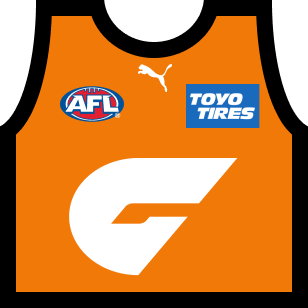
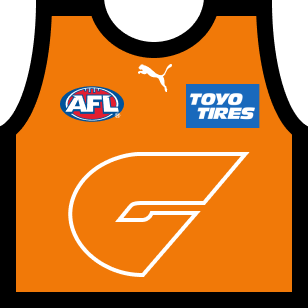
Updated GWS away jumper

Changed region(s): [[0.2045, 0.4675, 0.8182, 0.9058]]

diff --git a/docs/js/main.min.js b/docs/js/main.min.js
@@ -1,1 +1,1 @@
-function scroll(){$(window).on("scroll",function(){$(this).scrollTop()>=$(".c-fixture__round").offset().top-500?$(".js-scrollto-fixture").addClass("is-hidden"):$(".js-scrollto-fixture").removeClass("is-hidden")}),$(".js-scrollto-fixture").on("click",function(){$("html, body").animate({scrollTop:$(".js-game-pregame").offset().top-36},{duration:400,specialEasing:"easeInOut"})}),$(".c-fixture__game").each(function(){$(this).hasClass("c-fixture__game--in-progress")&&($(".js-scrollto-fixture").addClass("has-live"),$(".js-scrollto-fixture").on("click",function(){$("html, body").animate({scrollTop:$(".c-fixture__game--in-progress").offset().top-36},{duration:400,specialEasing:"easeInOut"})}))})}function dataFixture(e){$.getJSON("https://statsapi.foxsports.com.au/3.0/api/sports/afl/series/1/seasons/131/fixturesandresults.json?userkey=6B2F4717-A97C-49F6-8514-3600633439B9",function(t){$.getJSON("data/fixture.json",function(s){function a(t,s){var a=[];for(i=0;i<t.length;i++){const c=t[i];c.round.number==s&&(a.push(c),$(".js-fixture-round").text(c.round.name))}r(a,s),$(".c-fixture__bye--title").removeClass("u-block"),bye(s,u,e)}function c(e){$(".js-game-"+e).remove(),$(".js-bye-item-"+e).remove()}function n(e,s){l=s,c(e),a(t,s)}function r(t,s){for(i=0;i<t.length;i++){fixtureItem(t[i],e,s)}}var d=new Date,o=roundCalc(d,s),l=o,m=$(".js-previous"),_=$(".js-next"),u=[{round_number:2,teams:["BRI","COL","CAR","GEE"]},{round_number:3,teams:["GCS","WBD","HAW","SYD"]},{round_number:4,teams:["STK","GWS"]},{round_number:12,teams:["ADE","GCS","NM","POR"]},{round_number:13,teams:["GWS","RIC"]},{round_number:14,teams:["COL","CAR","HAW","FRE"]},{round_number:15,teams:["BRI","ESS","SYD","WCE"]},{round_number:16,teams:["WBD","GEE","STK","MEL"]}];a(t,o),m.on("click",function(){n(l,l-1)}),_.on("click",function(){n(l,l+1)})})})}function dataLadder(e){$.getJSON("https://statsapi.foxsports.com.au/3.0/api/sports/afl/series/1/seasons/131/ladder.json?userkey=6B2F4717-A97C-49F6-8514-3600633439B9",function(t){$(".c-ladder__round");for(i=0;i<t.teams.length;i++){const s=t.teams[i],a=e[s.code];ladderItem(s,i+1,a)}})}function data(){$.getJSON("data/clubs.json",function(e){dataLadder(e),dataFixture(e)})}function vertCenter(e,t){var s=e.parent().height();e.css({height:s+"px","line-height":s+"px"}),e.children(t).css({height:e.children(t).height(),"padding-top":(s-e.children(t).height())/2+"px","padding-bottom":(s-e.children(t).height())/2+"px"})}function clearStyles(e,t){e.attr("style",""),t.attr("style","")}function bye(e,t,s){for(i=0;i<t.length;i++){const a=t[i];if(e==a.round_number){byeItem(a.teams,s,e),console.log(a);break}}}function byeItem(e,t,s){for($(".c-fixture__bye--title").addClass("u-block"),i=0;i<e.length;i++){var a=e[i],c=t[a];$(".js-bye-items").after('<div class="c-fixture__bye--item js-bye-item-'+s+'"><img class="c-fixture__bye--item-logo" src="'+c.logo+'" /><span class="c-fixture__bye--item-name">'+c.name+"</span></div>")}}function dateTime(e){var t=new Date(e),s=t.getDate();return{day:function(e){var t=e.getDay();return 0==t?"Sunday":1==t?"Monday":2==t?"Tuesday":3==t?"Wednesday":4==t?"Thursday":5==t?"Friday":6==t?"Saturday":void 0}(t),month:function(e){var t=e.getMonth();return 0==t?"Jan":1==t?"Feb":2==t?"Mar":3==t?"Apr":4==t?"May":5==t?"Jun":6==t?"Jul":7==t?"Aug":8==t?"Sep":9==t?"Oct":10==t?"Nov":11==t?"Dec":void 0}(t),date:s,time:function(e){return e.getHours()+":"+("0"+e.getMinutes()).slice(-2)}(t)}}function finals(e,t){function s(e,s){var a=s.team_A,i=s.team_B,c=t[a.code],n=t[i.code],r=dateTime(s.match_start_date),d=e.children(".c-date"),o=e.children(".js-fixture-team-1"),l=e.children(".js-fixture-team-2"),m=e.children(".js-fixture-venue");"Pre Game"==s.match_status?(d.children(".c-date__day").text(r.day),d.children(".c-date__month").text(r.month),d.children(".c-date__date").text(r.date),d.children(".c-date__time").text(r.time)):"Full Time"==s.match_status?(e.addClass("full-time"),d.children(".c-date__day").text(r.day),d.children(".c-date__month").text(r.month),d.children(".c-date__date").text(r.date),d.children(".c-date__time").text("FT")):(e.addClass("live"),d.append('<span class="c-date__live">LIVE</span><span class="c-date__status">'+s.match_status+'</span><span class="c-date__played-time">'+s.match_time+"</span>")),o.children(".js-team-img").attr("src",c.kit.home),o.children(".js-team-text").text(c.name),"Pre Game"!==s.match_status&&o.children(".js-score-text").text("").append(a.goals+". "+a.behinds+'. <span class="c-fixture__score-total">'+a.score+"</span>"),null!==i.id&&(l.children(".js-team-img").attr("src",awayKit(n.kit,a.code)),l.children(".js-team-text").text(n.name)),"Pre Game"!==s.match_status&&l.children(".js-score-text").text("").append(i.goals+". "+i.behinds+'. <span class="c-fixture__score-total">'+i.score+"</span>"),m.text(s.venue.name)}function a(e,t){var s=e.team_A,a=e.team_B,i=t[s.code],c=t[a.code];return"post"==e.match_status_normalised&&s.score>a.score?{name:i.name,bg:i.pattern}:"post"==e.match_status_normalised&&a.score>s.score?{name:c.name,bg:c.pattern}:{name:"?"}}var i=e[8];$(".js-finals-series-year").text(e[0].season.year),$(".js-premiership-year").text(e[0].season.year),s($(".js-finals-qf1"),e[1]),s($(".js-finals-qf2"),e[2]),s($(".js-finals-ef1"),e[0]),s($(".js-finals-ef2"),e[3]),s($(".js-finals-sf1"),e[4]),s($(".js-finals-sf2"),e[5]),s($(".js-finals-pf1"),e[7]),s($(".js-finals-pf2"),e[6]),s($(".js-finals-gf"),i),$(".js-premiers-name").text(a(i,t).name),$(".js-premiers-bg").css({"background-image":"url("+a(i,t).bg+")","background-size":"50%","background-repeat":"repeat"})}function fixtureItem(e,t,s){var a=dateTime(e.match_start_date),i=e.match_status,c=e.team_A,n=e.team_B,r=t[c.code],d=t[n.code];"Pre Game"==i?$(".js-fixture .js-insert").before('<div class="c-fixture__game js-game-'+s+' js-game-pregame"><div class= "c-fixture__date c-date" ><span class="c-date__day">'+a.day+'</span><span class="c-date__month">'+a.month+'</span><span class="c-date__date">'+a.date+'</span><span class="c-date__time">'+a.time+'</span></div ><div class="c-fixture__team js-fixture-team-1"><img class="js-team-img" src="'+kitSwitcher(r.kit,c.code,n.code,c.code,s)+'" /><span class="js-team-text">'+r.name+'</span><span class="c-fixture__score js-score-text">-</span></div><div class="c-fixture__vs">vs</div><div class="c-fixture__team js-fixture-team-2"><img class="js-team-img" src="'+kitSwitcher(d.kit,n.code,n.code,c.code,s)+'" /><span class="js-team-text">'+d.name+'</span><span class="c-fixture__score js-score-text">-</span></div><div class="c-fixture__venue js-fixture-venue">'+e.venue.name+"</div></div>"):"Full Time"==i?$(".js-fixture .js-insert").before('<div class="c-fixture__game  js-game-'+s+' c-fixture__game--completed"><div class= "c-fixture__date c-date" ><span class="c-date__day">'+a.day+'</span><span class="c-date__month">'+a.month+'</span><span class="c-date__date">'+a.date+'</span><span class="c-date__time">FT</span></div ><div class="c-fixture__team js-fixture-team-1"><img class="js-team-img" src="'+kitSwitcher(r.kit,c.code,n.code,c.code,s)+'" /><span class="js-team-text">'+r.name+'</span><span class="c-fixture__score js-score-text">'+c.goals+". "+c.behinds+'. <span class="c-fixture__score-total">'+c.score+'</span></span></div><div class="c-fixture__vs">vs</div><div class="c-fixture__team js-fixture-team-2"><img class="js-team-img" src="'+kitSwitcher(d.kit,n.code,n.code,c.code,s)+'" /><span class="js-team-text">'+d.name+'</span><span class="c-fixture__score js-score-text">'+n.goals+". "+n.behinds+'. <span class="c-fixture__score-total">'+n.score+'</span></span></div><div class="c-fixture__venue js-fixture-venue">'+e.venue.name+"</div></div>"):$(".js-fixture .js-insert").before('<div class="c-fixture__game  js-game-'+s+' c-fixture__game--in-progress"><div class= "c-fixture__date c-date" ><span class="c-date__live">LIVE</span><span class="c-date__status">'+i+'</span><span class="c-date__time">'+e.match_time+'</span></div ><div class="c-fixture__team js-fixture-team-1"><img class="js-team-img" src="'+kitSwitcher(r.kit,c.code,n.code,c.code,s)+'" /><span class="js-team-text">'+r.name+'</span><span class="c-fixture__score js-score-text">'+c.goals+". "+c.behinds+'. <span class="c-fixture__score-total">'+c.score+'</span></span></div><div class="c-fixture__vs">vs</div><div class="c-fixture__team js-fixture-team-2"><img class="js-team-img" src="'+kitSwitcher(d.kit,n.code,n.code,c.code,s)+'" /><span class="js-team-text">'+d.name+'</span><span class="c-fixture__score js-score-text">'+n.goals+". "+n.behinds+'. <span class="c-fixture__score-total">'+n.score+'</span></span></div><div class="c-fixture__venue js-fixture-venue">'+e.venue.name+"</div></div>")}function kitSwitcher(e,t,s,a,i){return 14==i&"GEE"==t?e.special.wo:3==i|24==i&&"BRI"==t?e.special.heritage:2==i&&"MEL"==t?e.special.flame:5==i?e.special.gather:7==i?e.special.anzac:t==s?awayKit(e,a):e.home}function awayKit(e,t){return e.clash.teams.includes(t)?e.clash.kit:e.away}function ladderItem(e,t,s){$(".c-ladder__item-"+t+" div.c-ladder__team").children("span").text(s.name),$(".c-ladder__item-"+t+" div.c-ladder__team").children("img").attr("src",s.logo),$(".c-ladder__item-"+t+" div.c-ladder__played").text(e.stats.played),$(".c-ladder__item-"+t+" div.c-ladder__wins").text(e.stats.won),$(".c-ladder__item-"+t+" div.c-ladder__draws").text(e.stats.drawn),$(".c-ladder__item-"+t+" div.c-ladder__losses").text(e.stats.lost),$(".c-ladder__item-"+t+" div.c-ladder__points-for").text(e.stats.for),$(".c-ladder__item-"+t+" div.c-ladder__points-against").text(e.stats.against),$(".c-ladder__item-"+t+" div.c-ladder__percentage").text(e.stats.percentage),$(".c-ladder__item-"+t+" div.c-ladder__points").text(e.stats.points)}function roundCalc(e,t){for(i=0;i<t.length;i++){const s=t[i],a=new Date(s.start),c=new Date(s.end);if(a<e&&e<c)return s.round}}data(),$(window).on("resize",function(){});
+function dataFixture(e){$.getJSON("https://statsapi.foxsports.com.au/3.0/api/sports/afl/series/1/seasons/131/fixturesandresults.json?userkey=6B2F4717-A97C-49F6-8514-3600633439B9",function(t){$.getJSON("data/fixture.json",function(s){function a(t,s){var a=[];for(i=0;i<t.length;i++){const c=t[i];c.round.number==s&&(a.push(c),$(".js-fixture-round").text(c.round.name))}r(a,s),$(".c-fixture__bye--title").removeClass("u-block"),bye(s,u,e)}function c(e){$(".js-game-"+e).remove(),$(".js-bye-item-"+e).remove()}function n(e,s){l=s,c(e),a(t,s)}function r(t,s){for(i=0;i<t.length;i++){fixtureItem(t[i],e,s)}}var d=new Date,o=roundCalc(d,s),l=o,m=$(".js-previous"),_=$(".js-next"),u=[{round_number:2,teams:["BRI","COL","CAR","GEE"]},{round_number:3,teams:["GCS","WBD","HAW","SYD"]},{round_number:4,teams:["STK","GWS"]},{round_number:12,teams:["ADE","GCS","NM","POR"]},{round_number:13,teams:["GWS","RIC"]},{round_number:14,teams:["COL","CAR","HAW","FRE"]},{round_number:15,teams:["BRI","ESS","SYD","WCE"]},{round_number:16,teams:["WBD","GEE","STK","MEL"]}];a(t,o),m.on("click",function(){n(l,l-1)}),_.on("click",function(){n(l,l+1)})})})}function dataLadder(e){$.getJSON("https://statsapi.foxsports.com.au/3.0/api/sports/afl/series/1/seasons/131/ladder.json?userkey=6B2F4717-A97C-49F6-8514-3600633439B9",function(t){$(".c-ladder__round");for(i=0;i<t.teams.length;i++){const s=t.teams[i],a=e[s.code];ladderItem(s,i+1,a)}})}function data(){$.getJSON("data/clubs.json",function(e){dataLadder(e),dataFixture(e)})}function scroll(){$(window).on("scroll",function(){$(this).scrollTop()>=$(".c-fixture__round").offset().top-500?$(".js-scrollto-fixture").addClass("is-hidden"):$(".js-scrollto-fixture").removeClass("is-hidden")}),$(".js-scrollto-fixture").on("click",function(){$("html, body").animate({scrollTop:$(".js-game-pregame").offset().top-36},{duration:400,specialEasing:"easeInOut"})}),$(".c-fixture__game").each(function(){$(this).hasClass("c-fixture__game--in-progress")&&($(".js-scrollto-fixture").addClass("has-live"),$(".js-scrollto-fixture").on("click",function(){$("html, body").animate({scrollTop:$(".c-fixture__game--in-progress").offset().top-36},{duration:400,specialEasing:"easeInOut"})}))})}function vertCenter(e,t){var s=e.parent().height();e.css({height:s+"px","line-height":s+"px"}),e.children(t).css({height:e.children(t).height(),"padding-top":(s-e.children(t).height())/2+"px","padding-bottom":(s-e.children(t).height())/2+"px"})}function clearStyles(e,t){e.attr("style",""),t.attr("style","")}function bye(e,t,s){for(i=0;i<t.length;i++){const a=t[i];if(e==a.round_number){byeItem(a.teams,s,e),console.log(a);break}}}function byeItem(e,t,s){for($(".c-fixture__bye--title").addClass("u-block"),i=0;i<e.length;i++){var a=e[i],c=t[a];$(".js-bye-items").after('<div class="c-fixture__bye--item js-bye-item-'+s+'"><img class="c-fixture__bye--item-logo" src="'+c.logo+'" /><span class="c-fixture__bye--item-name">'+c.name+"</span></div>")}}function dateTime(e){var t=new Date(e),s=t.getDate();return{day:function(e){var t=e.getDay();return 0==t?"Sunday":1==t?"Monday":2==t?"Tuesday":3==t?"Wednesday":4==t?"Thursday":5==t?"Friday":6==t?"Saturday":void 0}(t),month:function(e){var t=e.getMonth();return 0==t?"Jan":1==t?"Feb":2==t?"Mar":3==t?"Apr":4==t?"May":5==t?"Jun":6==t?"Jul":7==t?"Aug":8==t?"Sep":9==t?"Oct":10==t?"Nov":11==t?"Dec":void 0}(t),date:s,time:function(e){return e.getHours()+":"+("0"+e.getMinutes()).slice(-2)}(t)}}function finals(e,t){function s(e,s){var a=s.team_A,i=s.team_B,c=t[a.code],n=t[i.code],r=dateTime(s.match_start_date),d=e.children(".c-date"),o=e.children(".js-fixture-team-1"),l=e.children(".js-fixture-team-2"),m=e.children(".js-fixture-venue");"Pre Game"==s.match_status?(d.children(".c-date__day").text(r.day),d.children(".c-date__month").text(r.month),d.children(".c-date__date").text(r.date),d.children(".c-date__time").text(r.time)):"Full Time"==s.match_status?(e.addClass("full-time"),d.children(".c-date__day").text(r.day),d.children(".c-date__month").text(r.month),d.children(".c-date__date").text(r.date),d.children(".c-date__time").text("FT")):(e.addClass("live"),d.append('<span class="c-date__live">LIVE</span><span class="c-date__status">'+s.match_status+'</span><span class="c-date__played-time">'+s.match_time+"</span>")),o.children(".js-team-img").attr("src",c.kit.home),o.children(".js-team-text").text(c.name),"Pre Game"!==s.match_status&&o.children(".js-score-text").text("").append(a.goals+". "+a.behinds+'. <span class="c-fixture__score-total">'+a.score+"</span>"),null!==i.id&&(l.children(".js-team-img").attr("src",awayKit(n.kit,a.code)),l.children(".js-team-text").text(n.name)),"Pre Game"!==s.match_status&&l.children(".js-score-text").text("").append(i.goals+". "+i.behinds+'. <span class="c-fixture__score-total">'+i.score+"</span>"),m.text(s.venue.name)}function a(e,t){var s=e.team_A,a=e.team_B,i=t[s.code],c=t[a.code];return"post"==e.match_status_normalised&&s.score>a.score?{name:i.name,bg:i.pattern}:"post"==e.match_status_normalised&&a.score>s.score?{name:c.name,bg:c.pattern}:{name:"?"}}var i=e[8];$(".js-finals-series-year").text(e[0].season.year),$(".js-premiership-year").text(e[0].season.year),s($(".js-finals-qf1"),e[1]),s($(".js-finals-qf2"),e[2]),s($(".js-finals-ef1"),e[0]),s($(".js-finals-ef2"),e[3]),s($(".js-finals-sf1"),e[4]),s($(".js-finals-sf2"),e[5]),s($(".js-finals-pf1"),e[7]),s($(".js-finals-pf2"),e[6]),s($(".js-finals-gf"),i),$(".js-premiers-name").text(a(i,t).name),$(".js-premiers-bg").css({"background-image":"url("+a(i,t).bg+")","background-size":"50%","background-repeat":"repeat"})}function fixtureItem(e,t,s){var a=dateTime(e.match_start_date),i=e.match_status,c=e.team_A,n=e.team_B,r=t[c.code],d=t[n.code];"Pre Game"==i?$(".js-fixture .js-insert").before('<div class="c-fixture__game js-game-'+s+' js-game-pregame"><div class= "c-fixture__date c-date" ><span class="c-date__day">'+a.day+'</span><span class="c-date__month">'+a.month+'</span><span class="c-date__date">'+a.date+'</span><span class="c-date__time">'+a.time+'</span></div ><div class="c-fixture__team js-fixture-team-1"><img class="js-team-img" src="'+kitSwitcher(r.kit,c.code,n.code,c.code,s)+'" /><span class="js-team-text">'+r.name+'</span><span class="c-fixture__score js-score-text">-</span></div><div class="c-fixture__vs">vs</div><div class="c-fixture__team js-fixture-team-2"><img class="js-team-img" src="'+kitSwitcher(d.kit,n.code,n.code,c.code,s)+'" /><span class="js-team-text">'+d.name+'</span><span class="c-fixture__score js-score-text">-</span></div><div class="c-fixture__venue js-fixture-venue">'+e.venue.name+"</div></div>"):"Full Time"==i?$(".js-fixture .js-insert").before('<div class="c-fixture__game  js-game-'+s+' c-fixture__game--completed"><div class= "c-fixture__date c-date" ><span class="c-date__day">'+a.day+'</span><span class="c-date__month">'+a.month+'</span><span class="c-date__date">'+a.date+'</span><span class="c-date__time">FT</span></div ><div class="c-fixture__team js-fixture-team-1"><img class="js-team-img" src="'+kitSwitcher(r.kit,c.code,n.code,c.code,s)+'" /><span class="js-team-text">'+r.name+'</span><span class="c-fixture__score js-score-text">'+c.goals+". "+c.behinds+'. <span class="c-fixture__score-total">'+c.score+'</span></span></div><div class="c-fixture__vs">vs</div><div class="c-fixture__team js-fixture-team-2"><img class="js-team-img" src="'+kitSwitcher(d.kit,n.code,n.code,c.code,s)+'" /><span class="js-team-text">'+d.name+'</span><span class="c-fixture__score js-score-text">'+n.goals+". "+n.behinds+'. <span class="c-fixture__score-total">'+n.score+'</span></span></div><div class="c-fixture__venue js-fixture-venue">'+e.venue.name+"</div></div>"):$(".js-fixture .js-insert").before('<div class="c-fixture__game  js-game-'+s+' c-fixture__game--in-progress"><div class= "c-fixture__date c-date" ><span class="c-date__live">LIVE</span><span class="c-date__status">'+i+'</span><span class="c-date__time">'+e.match_time+'</span></div ><div class="c-fixture__team js-fixture-team-1"><img class="js-team-img" src="'+kitSwitcher(r.kit,c.code,n.code,c.code,s)+'" /><span class="js-team-text">'+r.name+'</span><span class="c-fixture__score js-score-text">'+c.goals+". "+c.behinds+'. <span class="c-fixture__score-total">'+c.score+'</span></span></div><div class="c-fixture__vs">vs</div><div class="c-fixture__team js-fixture-team-2"><img class="js-team-img" src="'+kitSwitcher(d.kit,n.code,n.code,c.code,s)+'" /><span class="js-team-text">'+d.name+'</span><span class="c-fixture__score js-score-text">'+n.goals+". "+n.behinds+'. <span class="c-fixture__score-total">'+n.score+'</span></span></div><div class="c-fixture__venue js-fixture-venue">'+e.venue.name+"</div></div>")}function kitSwitcher(e,t,s,a,i){return 14==i&"GEE"==t?e.special.wo:3==i|24==i&&"BRI"==t?e.special.heritage:2==i&&"MEL"==t?e.special.flame:5==i?e.special.gather:7==i?e.special.anzac:t==s?awayKit(e,a):e.home}function awayKit(e,t){return e.clash.teams.includes(t)?e.clash.kit:e.away}function ladderItem(e,t,s){$(".c-ladder__item-"+t+" div.c-ladder__team").children("span").text(s.name),$(".c-ladder__item-"+t+" div.c-ladder__team").children("img").attr("src",s.logo),$(".c-ladder__item-"+t+" div.c-ladder__played").text(e.stats.played),$(".c-ladder__item-"+t+" div.c-ladder__wins").text(e.stats.won),$(".c-ladder__item-"+t+" div.c-ladder__draws").text(e.stats.drawn),$(".c-ladder__item-"+t+" div.c-ladder__losses").text(e.stats.lost),$(".c-ladder__item-"+t+" div.c-ladder__points-for").text(e.stats.for),$(".c-ladder__item-"+t+" div.c-ladder__points-against").text(e.stats.against),$(".c-ladder__item-"+t+" div.c-ladder__percentage").text(e.stats.percentage),$(".c-ladder__item-"+t+" div.c-ladder__points").text(e.stats.points)}function roundCalc(e,t){for(i=0;i<t.length;i++){const s=t[i],a=new Date(s.start),c=new Date(s.end);if(a<e&&e<c)return s.round}}data(),$(window).on("resize",function(){});

diff --git a/app/js/main.js b/app/js/main.js
@@ -4,42 +4,6 @@
 
 // Core Functions 
 data();
-function scroll() {
-   $(window).on('scroll', function(){
-      if ($(this).scrollTop() >= $('.c-fixture__round').offset().top - 500){
-         $('.js-scrollto-fixture').addClass('is-hidden');
-      } else {
-         $('.js-scrollto-fixture').removeClass('is-hidden');
-      }
-   });
-
-   $('.js-scrollto-fixture').on('click', function(){
-      $('html, body').animate(
-         {
-            scrollTop: $('.js-game-pregame').offset().top - 36,
-         }, {
-            duration: 400,
-            specialEasing: 'easeInOut'
-         }
-      )
-   });
-
-   $('.c-fixture__game').each(function(){
-      if ($(this).hasClass('c-fixture__game--in-progress')){
-         $('.js-scrollto-fixture').addClass('has-live');
-         $('.js-scrollto-fixture').on('click', function(){
-            $('html, body').animate(
-               {
-                  scrollTop: $('.c-fixture__game--in-progress').offset().top - 36,
-               }, {
-                  duration: 400,
-                  specialEasing: 'easeInOut'
-               }
-            )
-         });
-      }
-   });
-}
 
 // Data - Fixture/Results
 
@@ -181,6 +145,42 @@ function data() {
         dataLadder(clubs);
         dataFixture(clubs);
     });
+}
+function scroll() {
+   $(window).on('scroll', function(){
+      if ($(this).scrollTop() >= $('.c-fixture__round').offset().top - 500){
+         $('.js-scrollto-fixture').addClass('is-hidden');
+      } else {
+         $('.js-scrollto-fixture').removeClass('is-hidden');
+      }
+   });
+
+   $('.js-scrollto-fixture').on('click', function(){
+      $('html, body').animate(
+         {
+            scrollTop: $('.js-game-pregame').offset().top - 36,
+         }, {
+            duration: 400,
+            specialEasing: 'easeInOut'
+         }
+      )
+   });
+
+   $('.c-fixture__game').each(function(){
+      if ($(this).hasClass('c-fixture__game--in-progress')){
+         $('.js-scrollto-fixture').addClass('has-live');
+         $('.js-scrollto-fixture').on('click', function(){
+            $('html, body').animate(
+               {
+                  scrollTop: $('.c-fixture__game--in-progress').offset().top - 36,
+               }, {
+                  duration: 400,
+                  specialEasing: 'easeInOut'
+               }
+            )
+         });
+      }
+   });
 }
 //
 // Layout - Vertically Centered
